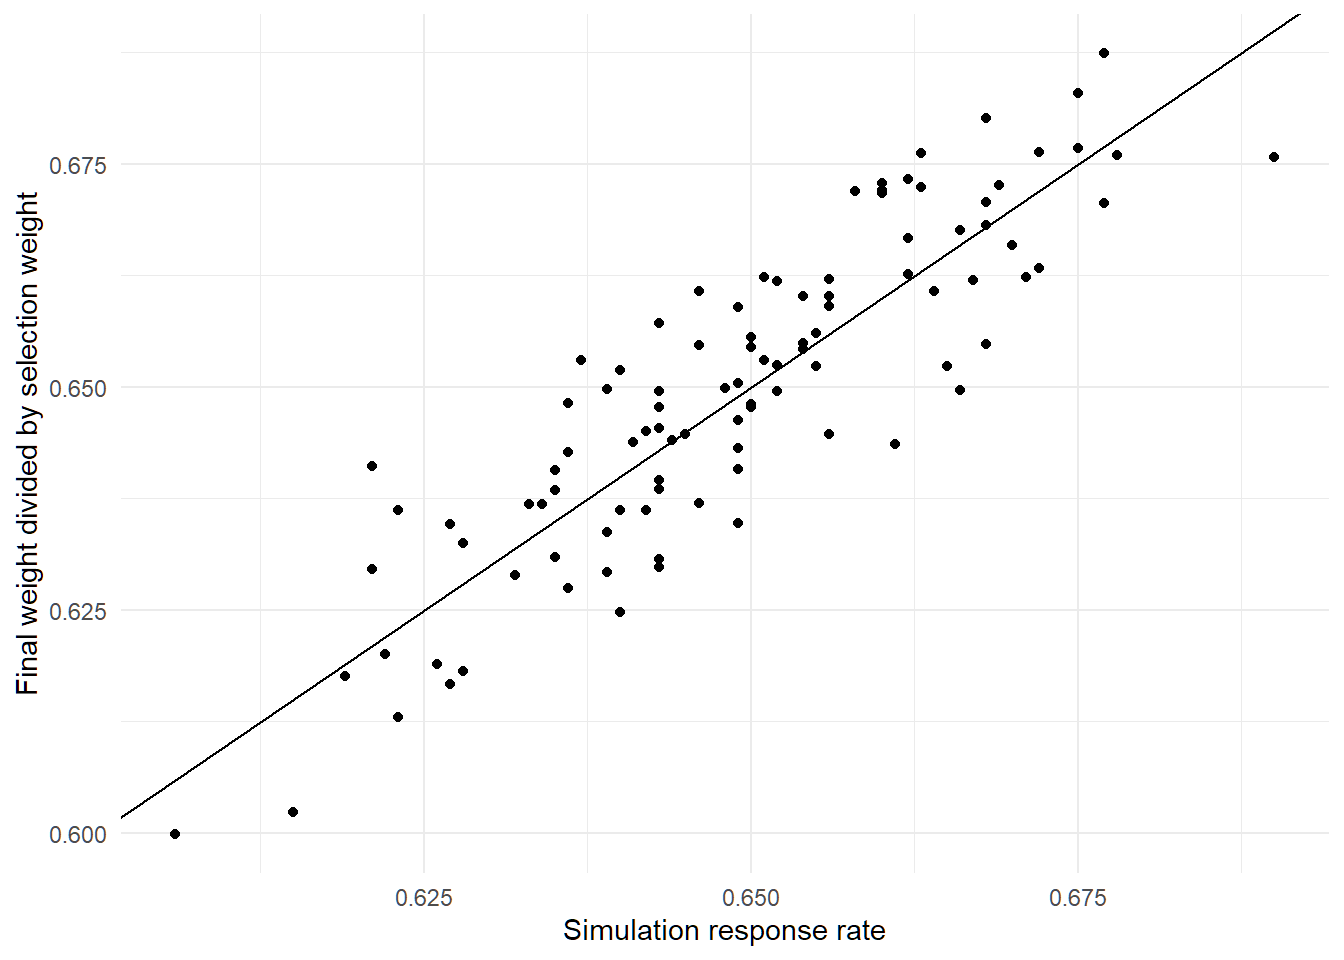
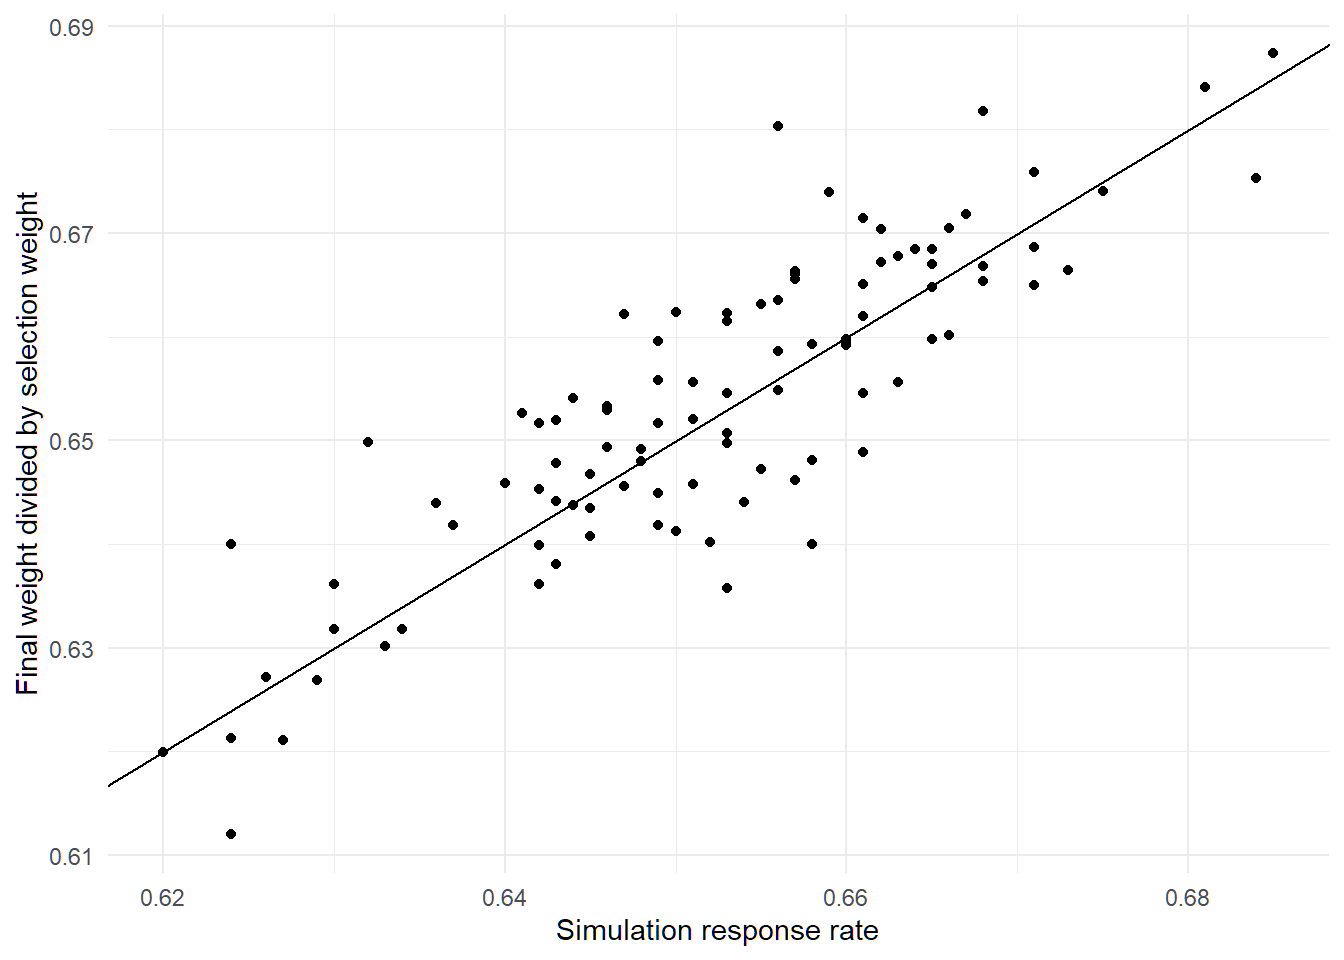
now?

diff --git a/content/post/why-is-this-the-answer/index.html b/content/post/why-is-this-the-answer/index.html
@@ -1,10 +1,21 @@
 ---
 title: "Why is this the answer?"
 author: "Jonathan Mellon"
-date: 2021-12-14T21:00:14-05:00
-categories: ["post-stratification", "response rate", "surveys", "weighting", "raking"]
-tags: ["post-stratification", "response rate", "surveys", "weighting", "raking", "stream of consciousness"]
-math: true
+date: '2021-12-14T21:00:14-05:00'
+categories:
+- post-stratification
+- response rate
+- surveys
+- weighting
+- raking
+tags:
+- post-stratification
+- response rate
+- surveys
+- weighting
+- raking
+- stream of consciousness
+math: yes
 ---
 
 <script src="{{< blogdown/postref >}}index_files/header-attrs/header-attrs.js"></script>
@@ -22,12 +33,12 @@ math: true
 <p>After an hour of failing to work out an analytic proof, I thought it would be worth doing a simulation to see whether the claim is at least empirically true.</p>
 <p>Let’s do a simple two-stage sample where households are randomly selected, then a respondent is randomly selected from that household. This means that people in larger households have a lower probability of selection. If you live alone there’s a 100% chance of selection conditional on your household being selected, whereas if you live in a two-person household your selection probability is 50%.</p>
 <p>Conditional on being selected for the survey, rich people respond at 100% and poor people respond at 30%.</p>
-<p>So after simulating that, I look at the response rate for the simulation (0.646) and the minimum value of the ratios of the final true weight to the selection weight (0.634). Not far off, but also not identical. So, it looks like my initial guess about the constraint might be on the right track but not exactly right.</p>
+<p>So after simulating that, I look at the response rate for the simulation (0.663) and the minimum value of the ratios of the final true weight to the selection weight (0.662). Not far off, but also not identical. So, it looks like my initial guess about the constraint might be on the right track but not exactly right.</p>
 <p>Let’s try this a few more times and see whether it’s robust.</p>
 <p><img src="{{< blogdown/postref >}}index_files/figure-html/unnamed-chunk-2-1.png" width="672" /></p>
 <p>After 100 simulations, it’s clear that there’s a very strong relationship, but this not an exact match.</p>
 <p>So what’s going on with those ratios? The mean of the scaled inverse-probability weights is always exactly 1 in the simulation as is the mean of the scaled selection weights.</p>
-<p>However, the ratios themselves do not always have a mean of exactly one. In fact, on average, they are 0.0109 away from 1. But should we actually expect these ratios to be near one on average? If I simulate two random vectors and rescale them to both have a mean of 1, the average ratio of them isn’t usually anywhere near 1.</p>
+<p>However, the ratios themselves do not always have a mean of exactly one. In fact, on average, they are 0.0094 away from 1. But should we actually expect these ratios to be near one on average? If I simulate two random vectors and rescale them to both have a mean of 1, the average ratio of them isn’t usually anywhere near 1.</p>
 <pre class="r"><code>set.seed(1298)
 A &lt;- abs(rnorm(1000))
 B &lt;- abs(rnorm(1000))
@@ -37,7 +48,7 @@ mean(A/B)</code></pre>
 <pre><code>## [1] 4.292947</code></pre>
 <p>OK, well what if I rescale the ratios so that they <em>actually</em> have a mean of 1 rather than just being close to that?</p>
 <p><img src="{{< blogdown/postref >}}index_files/figure-html/unnamed-chunk-6-1.png" width="672" /></p>
-<p>Apparently, that nails the minimum weight exactly. The mean absolute difference between this adjusted ratio and the response rate for the survey is just 0.0000000000000000743849426498855. At that point I’m willing to believe any remaining differences are just about floating point precision.</p>
+<p>Apparently, that nails the minimum weight exactly. The mean absolute difference between this adjusted ratio and the response rate for the survey is just 0.0000000000000000621724893790088. At that point I’m willing to believe any remaining differences are just about floating point precision.</p>
 </div>
 <div id="does-this-work-with-different-simulation-parameters" class="section level1">
 <h1>Does this work with different simulation parameters?</h1>
